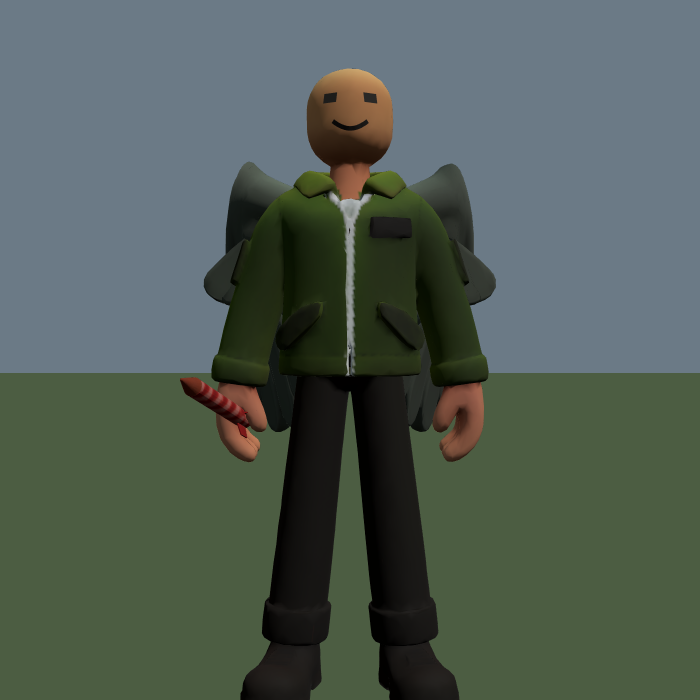
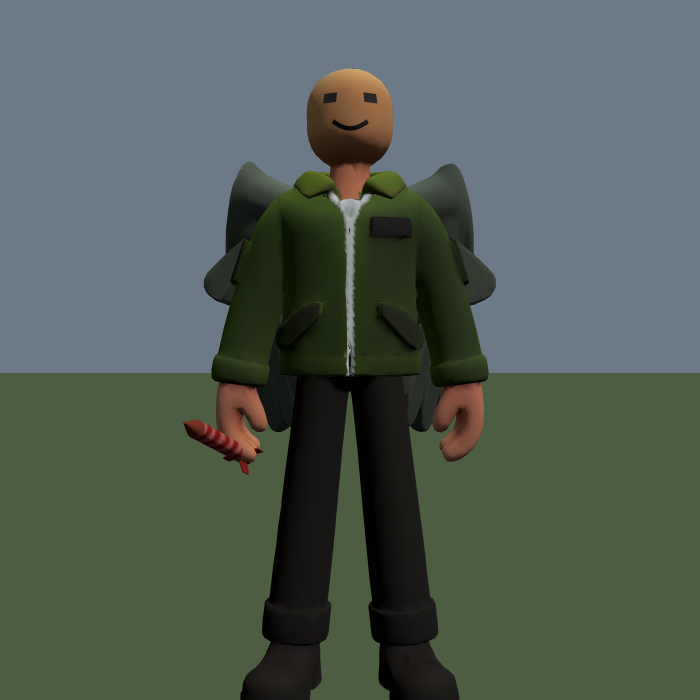
Judge the grip from eight cameras, not one
You were right that one angle proves nothing. Rendering the hand from eight
showed what square-on could not: the tube was passing over the knuckles with
clear air under it from every side view, while the front view showed it
crossing the fingers. Same placement, two opposite readings.

The grip goes down into the fingers - 0.35 of the fist's height *below* its
middle, not above it. My earlier "lift it into the thumb and forefinger" was
the wrong direction for this hand: these fingers curl low, and what looks like
the grip ring on a real fist is knuckle here.

And gripcheck was measuring the wrong quantity. How far the axis runs from the
fist's middle says nothing about whether the tube is down among the fingers or
sailing over them, and it called this placement - gripped from all eight
cameras - "buried". It measures the share of the fist that lies inside the tube
now, calibrated against four placements each judged from all eight:

  held clear of the hand      2%    floating
  behind the fingers         14%    floats from the side
  through the knuckles       19%    gap from the side
  down through the fingers   26%    gripped from every angle

Gate at 22%.

Claude-Session: https://claude.ai/code/session_01AbPj1ecgWZX5NRERgq23EA

Changed region(s): [[0.24, 0.54, 0.36, 0.69]]

diff --git a/tools/model.html b/tools/model.html
@@ -249,6 +249,18 @@ const POSES = {
   // which is the hardest possible read of where a dark object is relative to a
   // hand; four were rendered and compared before these two.
   'grip-front': { player: { selectedSlot: 4 }, camera: [0.28, 0.92, -1.15], look: [0.28, 0.92, 0] },
+  // Round the hand, because judging this from one camera has been wrong every
+  // time: a tube that overlaps the fingers from the front can be a tube
+  // hovering a hand's width away seen from the side, and the two are the same
+  // picture square on.
+  'grip-r0': { player: { selectedSlot: 4 }, camera: [0.28, 0.92, -1.0], look: [0.28, 0.90, 0] },
+  'grip-r45': { player: { selectedSlot: 4 }, camera: [0.99, 0.92, -0.71], look: [0.28, 0.90, 0] },
+  'grip-r90': { player: { selectedSlot: 4 }, camera: [1.28, 0.92, 0], look: [0.28, 0.90, 0] },
+  'grip-r135': { player: { selectedSlot: 4 }, camera: [0.99, 0.92, 0.71], look: [0.28, 0.90, 0] },
+  'grip-r180': { player: { selectedSlot: 4 }, camera: [0.28, 0.92, 1.0], look: [0.28, 0.90, 0] },
+  'grip-r270': { player: { selectedSlot: 4 }, camera: [-0.72, 0.92, 0], look: [0.28, 0.90, 0] },
+  'grip-rup': { player: { selectedSlot: 4 }, camera: [0.28, 1.55, -0.75], look: [0.28, 0.90, 0] },
+  'grip-rdn': { player: { selectedSlot: 4 }, camera: [0.28, 0.30, -0.85], look: [0.28, 0.92, 0] },
   'grip-front-wide': { player: { selectedSlot: 4 }, camera: [0, 1.05, -2.6], look: [0, 1.0, 0] },
   'stand-front': { player: {}, camera: [0, 1.1, -3.6], look: [0, 1.0, 0] },
   'stand-side': { player: {}, camera: [3.6, 1.1, 0], look: [0, 1.0, 0] },
@@ -308,10 +320,20 @@ window.__grip = () => {
   const spread = fist.reduce((sum, p) => sum + p.distanceTo(middle), 0) / fist.length;
   const along = Math.max(0, Math.min(0.4, middle.clone().sub(foot).dot(tip)));
   const centreGap = middle.distanceTo(foot.clone().addScaledVector(tip, along));
+  // What actually separates held from floating is how much of the hand the
+  // tube passes through - not where its axis sits relative to the fist's
+  // middle, which says nothing about whether the tube is at finger height or
+  // sailing over the knuckles.
+  const radius = 0.026 * avatar.rocket.scale.x;
+  let inside = 0;
+  for (const p of fist) {
+    const at = Math.max(0, Math.min(0.4, p.clone().sub(foot).dot(tip)));
+    if (p.distanceTo(foot.clone().addScaledVector(tip, at)) < radius) inside += 1;
+  }
   return {
-    fist: avatar.scanFist, scale: avatar.rocket.scale.x,
-    radius: 0.026 * avatar.rocket.scale.x,
+    fist: avatar.scanFist, scale: avatar.rocket.scale.x, radius,
     nearest, spread, centreGap, offCentre: centreGap / spread,
+    through: inside / fist.length,
   };
 };
 

diff --git a/src/player/avatar.js b/src/player/avatar.js
@@ -25,7 +25,7 @@ const BUILT_FIST = 0.052;
  * fingertips to wrist. A closed hand holds a stick through the ring its curled
  * fingers make, which is above the middle of the fist.
  */
-const GRIP_RISE = 0.30;
+const GRIP_RISE = -0.35;
 /**
  * And how much wider than the fist the tube is drawn, so the fingers close
  * round something rather than beside it.
@@ -34,7 +34,7 @@ const GRIP_FILL = 1.0;
 /** How far out of the fist it sits, as a share of the fist's width. */
 const GRIP_OUT = 0.0;
 /** How far behind the fist's axis it sits, as a share of the fist's width. */
-const GRIP_BACK = -0.25;
+const GRIP_BACK = 0.0;
 /** White, for lightening the slot colour before it tints a photograph. */
 const WHITE_TINT = new THREE.Color(0xffffff);
 /** Scratch, so measuring the scan's fist allocates nothing. */
